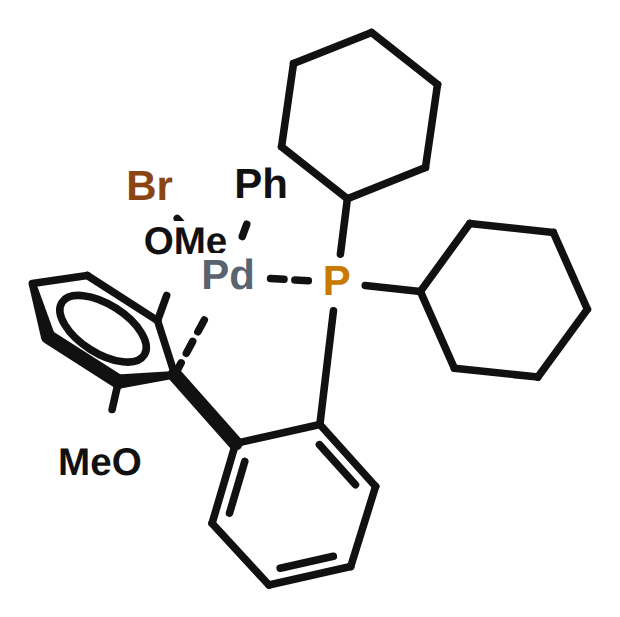
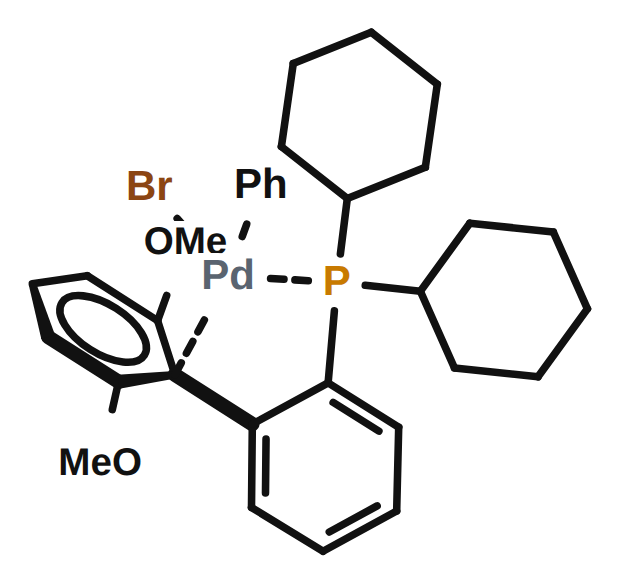
metaldepict: C1/C4 on biaryl axis, Cp* substituents, metallocenes self-optimise
Biaryl C_ipso now reads STRAIGHT: _biaryl_component excludes the partner ring
(it was being rotated along with ring B, so straighten was a no-op), and the
ipso(C1)->para(C4) axis is aligned onto the biaryl bond -- C1 and C4 sit exactly
on the bond axis (180.0 deg, was 164).

eta-n disc substituents (Cp* methyls, ...) now radiate straight OUT from the
disc centre through their ring carbon, so they splay evenly around the rim
instead of bunching at RDKit's flat-ring directions.

Metallocenes go through the SAME self-optimising search as everything else
(removed the special-case path); a frozen-core (_is_haptic) gate keeps the
fan / outside / metal-leaf moves off the rigid disc while still letting
declutter/uncross clean the Cp* methyls and ancillaries.

Robustness: substituting each of the 8 with a bulkier family member (Ru-MACHO
PtBu2, Pd-XPhos, Cu-oxalamide DiPP, Fe-salen 3,5-tBu = Jacobsen, Grubbs/Hoveyda
IPr, Cp*2Rh, Cp*2ZrCl2) -- all 8 build and render; the reoptimiser keeps 6/8
crossing-free (incl. the Jacobsen catalyst at 0/0 and Cp*2Rh 3->0 crossings).

Claude-Session: https://claude.ai/code/session_01VEr4Hixwf6YDK6DNqMg3Gi

Changed region(s): [[0.0306, 0.1849, 0.95, 0.9555], [0.4597, 0.0308, 0.6435, 0.1541], [0.6435, 0.0925, 0.7355, 0.1541]]

diff --git a/metaldepict/methods/complexes.py b/metaldepict/methods/complexes.py
@@ -546,7 +546,21 @@ RECIPES = [
 ]
 
 
+def _is_haptic(H):
+    """True for an eta-n complex (metallocene / half-sandwich): the metal is bonded
+    through a coord bond to a label-less ring-centroid ANCHOR (a degree-1 invisible
+    atom -- distinct from a coord'd C_ipso, which is in a ring), so its disc is a
+    frozen rigid body the fan / outside moves must NOT touch."""
+    m = H.metal
+    return m is not None and any(
+        H.label.get(nb, "") == "" and len(H.adj[nb]) == 1
+        and H.kind.get(frozenset((m, nb))) == "coord"
+        for nb in H.adj[m])
+
+
 def _apply_op(H, op):
+    if op in ("fan", "outside") and _is_haptic(H):    # frozen metallocene core
+        return
     if op == "fan":
         if H.metal is not None and len(H.adj[H.metal]) >= 3:
             metal_fan(H)
@@ -572,11 +586,12 @@ def _run_recipe(H, recipe):
         for op in ops:
             _apply_op(H, op)
         relaxer_energy.relax(H, WSET[wkey])
-    before = H.metrics()["overlap"]
-    snap = dict(H.pos)
-    _declutter_metal_leaves(H)
-    if H.metrics()["overlap"] > before:
-        H.pos = snap
+    if not _is_haptic(H):                              # not on a frozen metallocene
+        before = H.metrics()["overlap"]
+        snap = dict(H.pos)
+        _declutter_metal_leaves(H)
+        if H.metrics()["overlap"] > before:
+            H.pos = snap
     return H
 
 
@@ -585,7 +600,8 @@ def _relax_proven(H):
     chelate ring (guarded), then declutter/swing/uncross relief.  Tried first; the
     weight-schedule recipes are only needed when this still leaves a problem."""
     relaxer_energy.relax(H, W)
-    if H.metal is not None and len(H.adj[H.metal]) >= 3:
+    haptic = _is_haptic(H)
+    if not haptic and H.metal is not None and len(H.adj[H.metal]) >= 3:
         before = (H.metrics()["crossings"], H.metrics()["overlap"])
         snap = dict(H.pos)
         metal_fan(H)
@@ -594,16 +610,18 @@ def _relax_proven(H):
         relaxer_energy.relax(H, WHI)
         if (H.metrics()["crossings"], H.metrics()["overlap"]) > before:
             H.pos = snap
-    for _ in range(2):
+    for _ in range(3 if haptic else 2):               # extra uncross for Cp* methyls
         R.declutter(H, passes=2)
-        R.swing_off_backbone(H)
+        if not haptic:
+            R.swing_off_backbone(H)
         R.uncross(H)
         relaxer_energy.relax(H, W)
-    before = H.metrics()["overlap"]
-    snap = dict(H.pos)
-    _declutter_metal_leaves(H)
-    if H.metrics()["overlap"] > before:
-        H.pos = snap
+    if not haptic:
+        before = H.metrics()["overlap"]
+        snap = dict(H.pos)
+        _declutter_metal_leaves(H)
+        if H.metrics()["overlap"] > before:
+            H.pos = snap
     return H
 
 
@@ -734,14 +752,6 @@ def render(name, mol):
     recipes -- as long as a result still has a crossing or an overlap (a PROBLEM)
     the optimiser keeps trying more options, keeping the best by the judge and
     stopping the moment a clean one (0 crossings, 0 overlaps) is found."""
-    sc0 = S.scene_from_mol(mol, name)
-    meta0 = getattr(sc0, "meta", None) or {}
-    if meta0.get("extra_rigid"):                  # haptic metallocene -> frozen core
-        H = R.Harness(scene=sc0, title=name, metal=meta0.get("metal"),
-                      exempt=meta0.get("exempt"), extra_rigid=meta0.get("extra_rigid"))
-        relax_complex(H, fan=False)
-        _orient_labels(H)
-        return H
     best, bests = None, (99, 99, 1e18)
     for rname, recipe in [("proven", None)] + RECIPES:   # proven first, then search
         H = _build_one(name, mol, recipe)

diff --git a/metaldepict/methods/relax_harness.py b/metaldepict/methods/relax_harness.py
@@ -774,9 +774,18 @@ def _find_biaryl(H):
     return None
 
 
-def _biaryl_component(H, ring):
+def _biaryl_component(H, ring, partner=None):
+    """The biaryl ring + ITS OWN substituents (OMe, ...), but NOT the partner ring
+    across the biaryl bond -- so rotating it about the ipso moves only this ring
+    relative to the fixed partner."""
     exo = _exo_subtrees(H, ring)
-    return set(ring) | {a for subs in exo.values() for (_, atoms) in subs for a in atoms}
+    comp = set(ring)
+    for subs in exo.values():
+        for (nb, atoms) in subs:
+            if partner is not None and (nb == partner or partner in atoms):
+                continue                              # skip the biaryl partner side
+            comp |= atoms
+    return comp
 
 
 def _rotate_about(H, atoms, piv, dth, respect_pins=True):
@@ -818,7 +827,8 @@ def straighten_biaryl(H):
     bx, by = px - H.pos[partner][0], py - H.pos[partner][1]     # biaryl axis dir
     dth = (math.atan2(by, bx)
            - math.atan2(H.pos[para][1] - py, H.pos[para][0] - px))
-    _rotate_about(H, _biaryl_component(H, ring), (px, py), dth, respect_pins=False)
+    _rotate_about(H, _biaryl_component(H, ring, partner), (px, py), dth,
+                  respect_pins=False)
     return ring
 
 
@@ -831,7 +841,7 @@ def _foreshorten_biaryl_ring(H, ring, pivot_a, partner, squash):
     perspective wedges."""
     px, py = H.pos[pivot_a]
     exo = _exo_subtrees(H, ring)
-    comp = set(ring) | {a for subs in exo.values() for (_, atoms) in subs for a in atoms}
+    comp = _biaryl_component(H, ring, partner)        # ring + OMe, NOT the partner ring
     # biaryl axis: from the partner ring's ipso through this ipso, extended outward
     bx, by = px - H.pos[partner][0], py - H.pos[partner][1]
     bn = math.hypot(bx, by) or 1e-9
@@ -872,6 +882,8 @@ def _foreshorten_biaryl_ring(H, ring, pivot_a, partner, squash):
             ol = math.hypot(ox, oy) or 1e-9
         ox, oy = ox / ol, oy / ol
         for (d, atoms) in subs:
+            if d == partner or d not in orig:         # not the biaryl partner side
+                continue
             blen = _vlen(orig[c], orig[d])
             tgt = (H.pos[c][0] + ox * blen, H.pos[c][1] + oy * blen)
             dx, dy = tgt[0] - orig[d][0], tgt[1] - orig[d][1]

diff --git a/metaldepict/methods/seed_from_smiles.py b/metaldepict/methods/seed_from_smiles.py
@@ -318,12 +318,26 @@ def _layout_haptic_discs(pos, metal, rings, sigma, cx, gap=1.62, squash=0.46):
             b = wx * up[0] + wy * up[1]              # full width across
             newpos[atom] = (center[0] + a * u[0] + b * up[0],
                             center[1] + a * u[1] + b * up[1])
-        for atom in ring:                            # move atom + its substituents
-            dx = newpos[atom][0] - pos[atom][0]
-            dy = newpos[atom][1] - pos[atom][1]
-            for sub in _subtree(cx, atom, ring_set, metal):
-                pos[sub] = (pos[sub][0] + dx, pos[sub][1] + dy)
+        for atom in ring:
             pos[atom] = newpos[atom]
+        # ring substituents (Cp* methyls, ...) radiate straight OUT from the disc
+        # centre through their ring carbon -- so they splay evenly around the rim
+        # (foreshortened with the disc) instead of bunching at RDKit's flat-ring
+        # directions.  The whole sub-tree rides on the placed first atom.
+        for atom in ring:
+            ox = newpos[atom][0] - center[0]
+            oy = newpos[atom][1] - center[1]
+            ol = math.hypot(ox, oy) or 1e-9
+            ox, oy = ox / ol, oy / ol
+            for nb in cx.GetAtomWithIdx(atom).GetNeighbors():
+                s = nb.GetIdx()
+                if s in ring_set or s == metal:
+                    continue
+                sub = {s} | _subtree(cx, s, ring_set | {atom}, metal)
+                tgt = (newpos[atom][0] + ox * L, newpos[atom][1] + oy * L)
+                dx, dy = tgt[0] - pos[s][0], tgt[1] - pos[s][1]
+                for a in sub:
+                    pos[a] = (pos[a][0] + dx, pos[a][1] + dy)
         # "wedges toward the forefront": the FRONT (lower, toward-viewer) edge of
         # the tilted disc is drawn BOLD, the two edges flanking it TAPER (wide end
         # at the front vertex), the receding edges plain -- the same convention as
